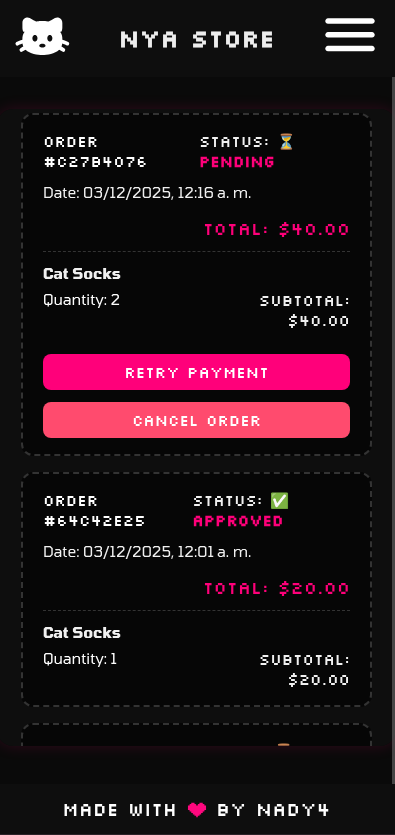
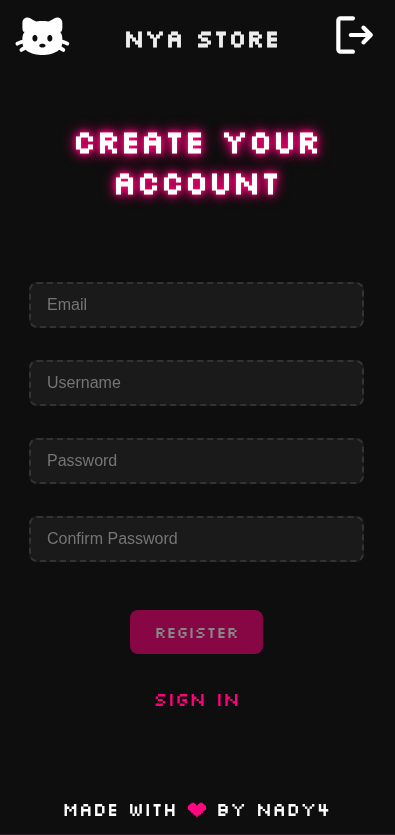
doc images

diff --git a/README.md b/README.md
@@ -12,8 +12,8 @@
   <img src="./public/assets/docs/2.png" width="49%">
   <img src="./public/assets/docs/3.png" width="49%">
   <img src="./public/assets/docs/4.png" width="100%">
-  <img src="./public/assets/docs/5.png" width="49%">
-  <img src="./public/assets/docs/6.png" width="49%">
+  <img src="./public/assets/docs/5.png" width="100%">
+  <img src="./public/assets/docs/6.png" width="100%">
 </p>
 
 <br>
@@ -50,7 +50,6 @@ Steps:
    `npm install`
 
 3. Create a `.env` file
-
    - `NEXTAUTH_URL`="http://localhost:3000"
 
    - `NEXTAUTH_SECRET`="yourSecret"
@@ -256,7 +255,6 @@ Line item inside an order.
 ## 💳 Mercado Pago Integration (Overview)
 
 - When the user confirms the cart, `/api/orders`:
-
   - Creates an `Order` with `pending` status.
   - Creates a Mercado Pago Preference.
   - Sends `back_urls`, `notification_url`, `external_reference`.
@@ -280,5 +278,7 @@ Use Mercado Pago test accounts and test cards to run the entire flow safely.
 ## 📬 Contact
 
 ### 💌 Email: **[email redacted]**
+
 ### 💼 LinkedIn: [nady4](https://www.linkedin.com/in/nady4)
+
 ### 👩🏻💻 GitHub: [@nady4](https://github.com/nady4)